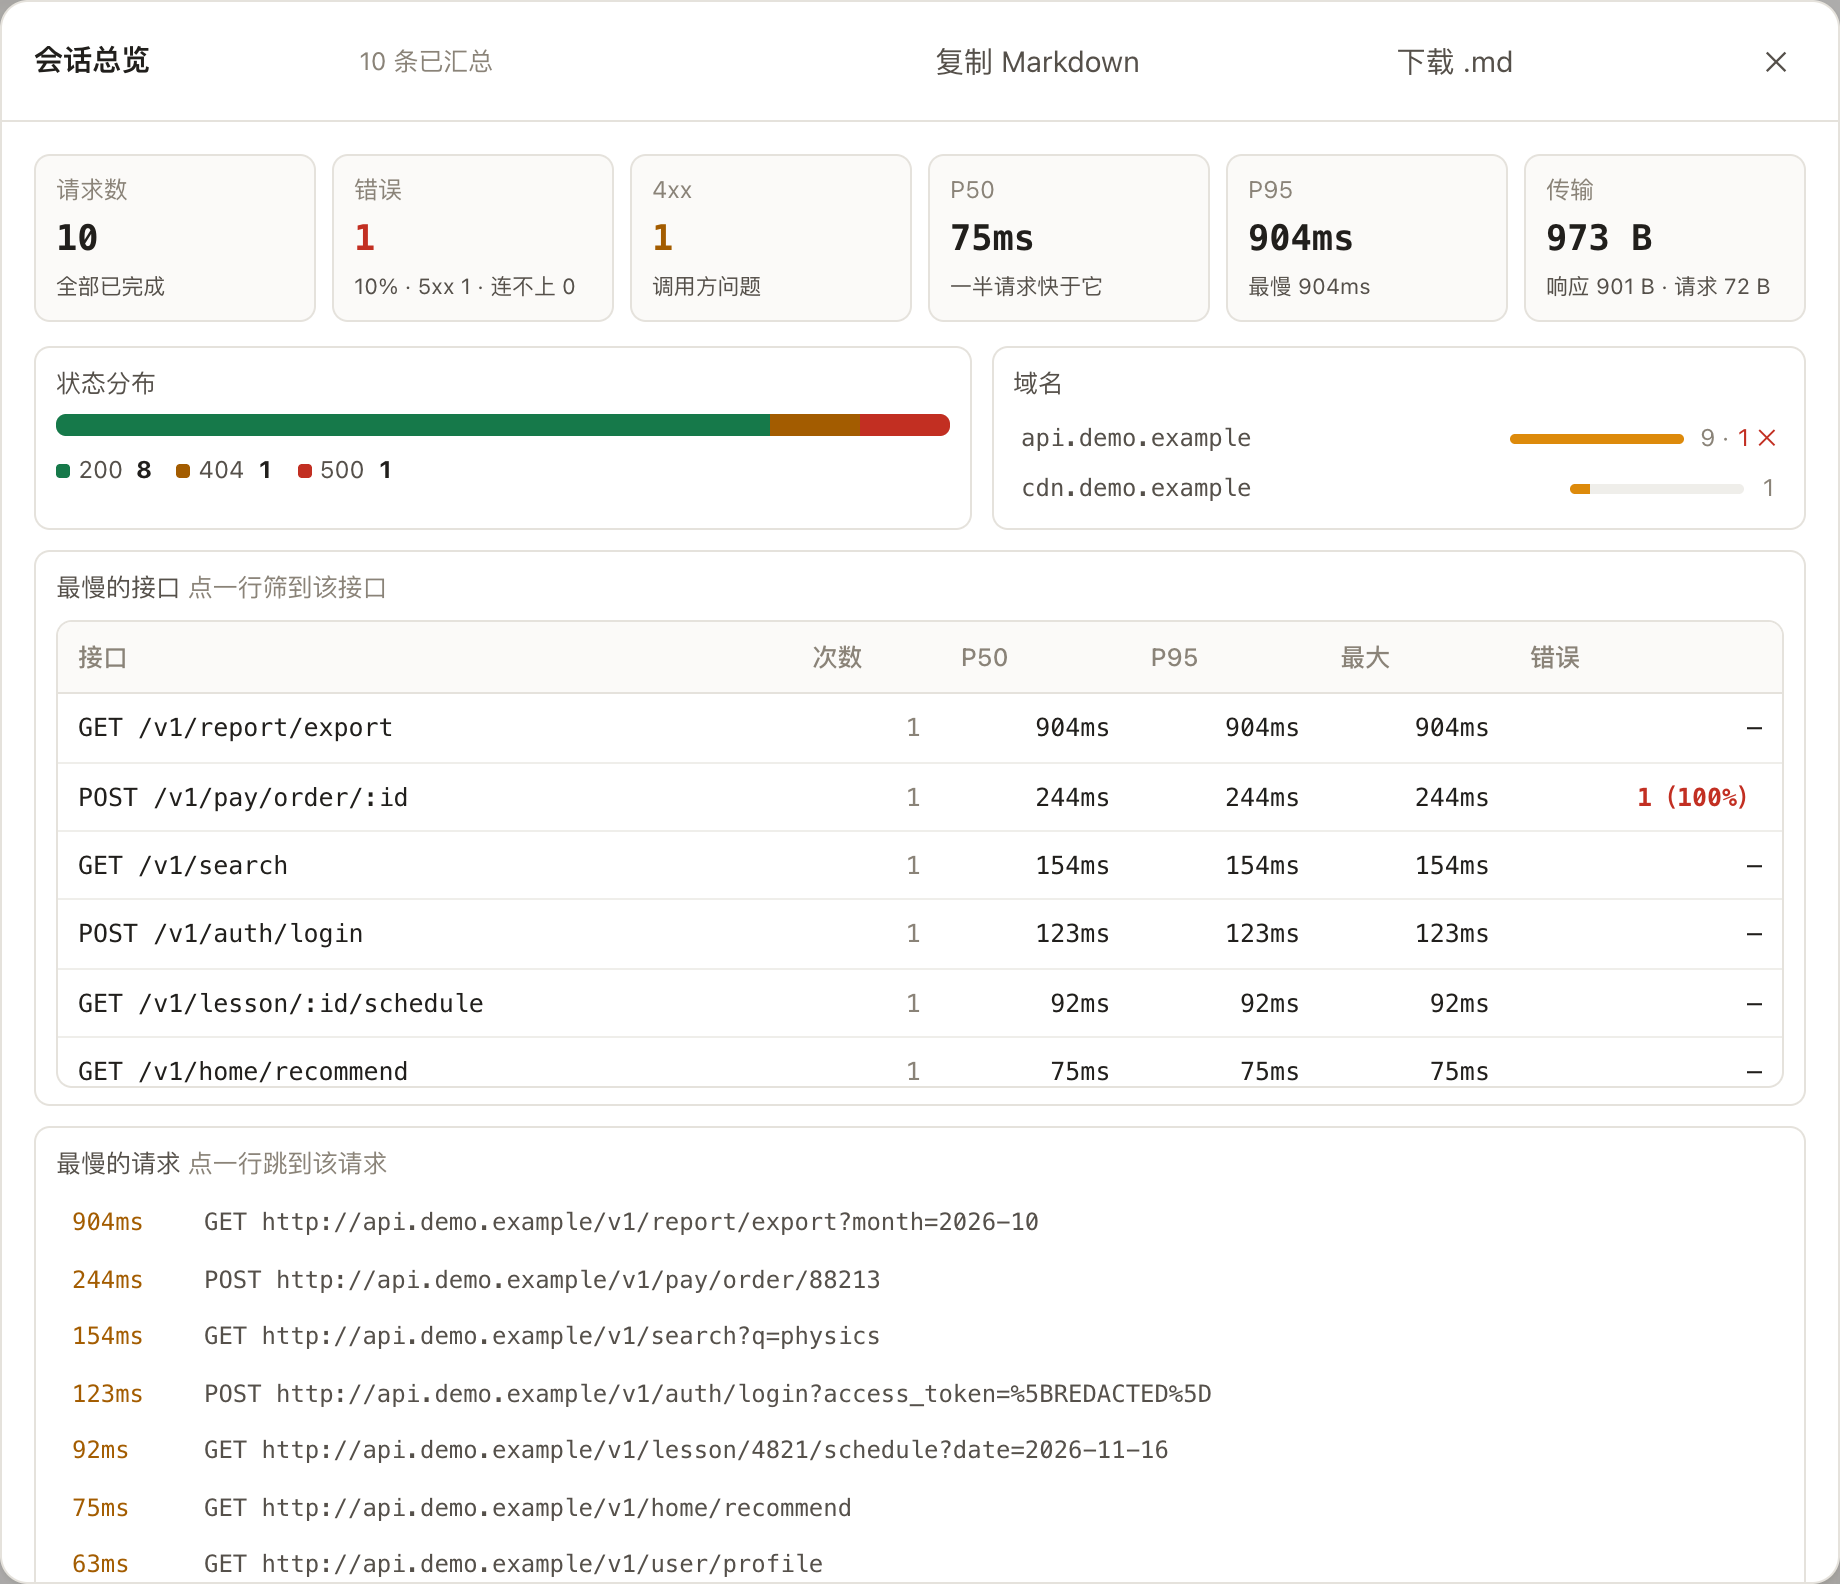
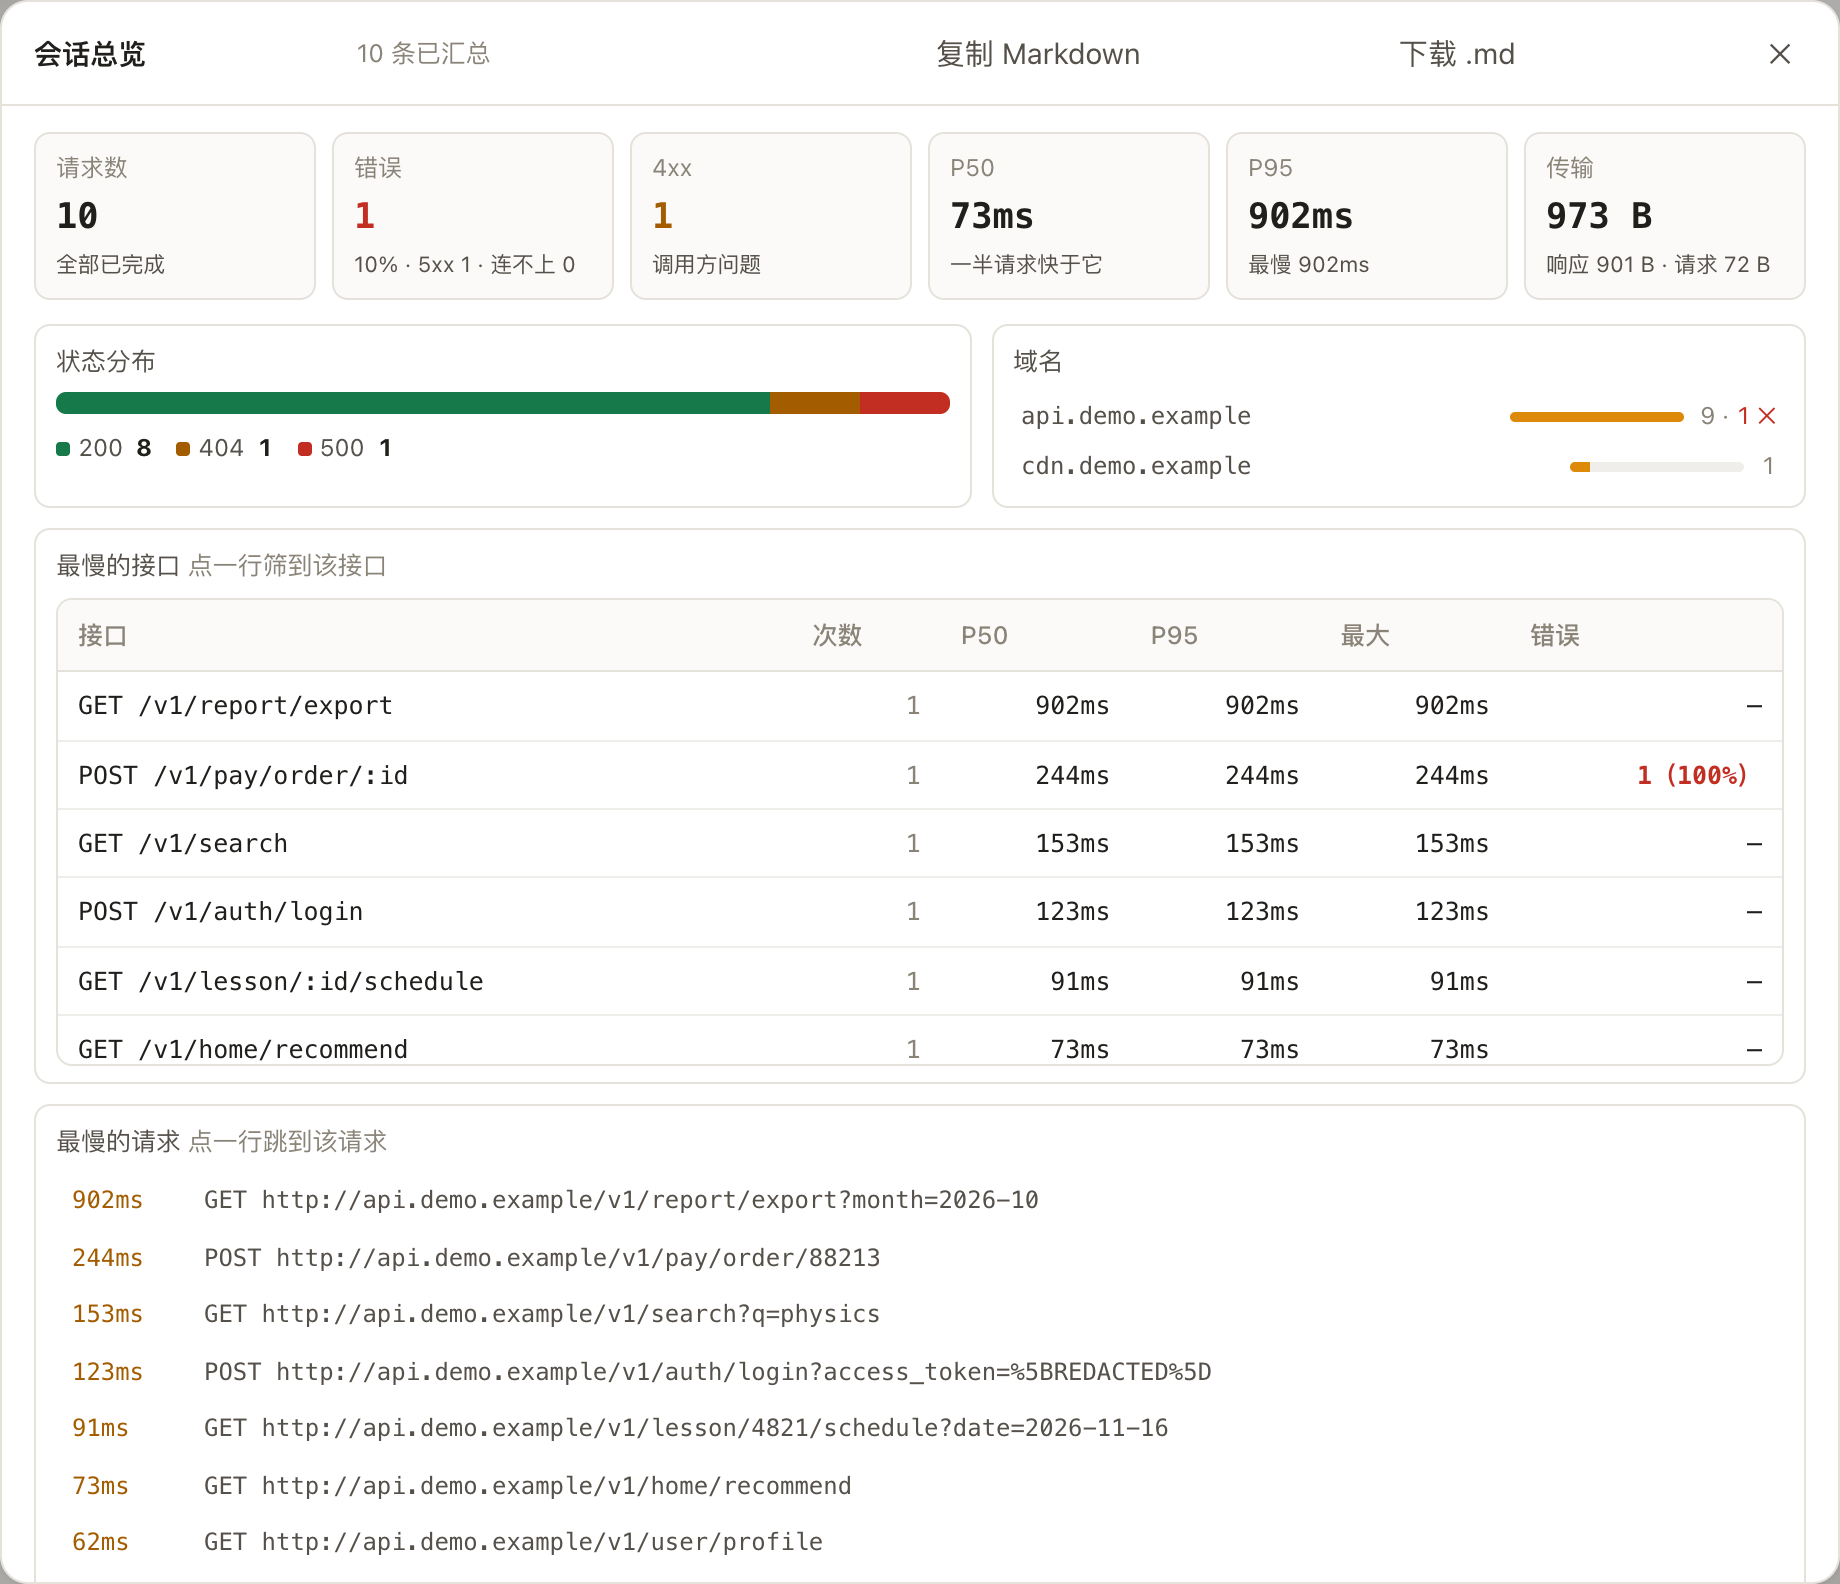
style: 再瘦一轮界面（详情头部 / 弹窗头部 / 长说明）
- 详情头部：8 个操作按钮挤一行（窄详情会换行把 dmeta 撑高），现在只留
  重放 / Mock 此请求 / ☆ 收藏，断点、域名映射、对比基准、网络模拟、复制 cURL
  收进「⋯」菜单；dhead 164px → 135px。点空白处收起菜单。
- 弹窗头部 60px → 52px（小面板里它占两三成高度），modal-body padding 16 → 13。
- 面板长说明默认折成一行：脚本（39→19px）、反向代理（42→21px）、脱敏、
  跳过解密、告警共 5 处；用 ▾ 符号提示可展开，一行放得下时不显示箭头（.no-fold）。

测试侧：_pw 的点击装饰器支持 #flowMoreMenu（点菜单项前自动展开，和顶部 / 筛选菜单一致）；
check-dom 白名单补两个动态 id；i18n 字典换掉「网络 ▾」、补三条英译。全套 50/50。

diff --git a/public/app.js b/public/app.js
@@ -2437,14 +2437,20 @@ function renderDetail() {
         <span class="dactions">
           <button class="btn" id="actReplay">重放</button>
           <button class="btn" id="actMock">Mock 此请求</button>
-          <button class="btn ghost" id="actBreak" title="给这个路径加一条断点规则：下次命中时停下来让你改">断点</button>
-          <button class="btn ghost" id="actMap" title="把这个域名映射到别的机器：配一次就一直生效">映射</button>
-          <button class="btn ghost" id="actBase" title="把它设为对比基准：别的请求详情里就能跟它比，再点一次取消">${
-            S.cmpBaseId === f.id ? '取消基准' : '对比基准'
-          }</button>
-          <button class="btn ghost" id="actNet">网络 ▾</button>
-          <button class="btn ghost" id="actStar">☆ 收藏</button>
-          <button class="btn ghost" id="actCurl">复制 cURL</button>
+          <button class="btn ghost" id="actStar" title="收藏这条请求的「应用 + 接口」，下次一点就筛回来">☆ 收藏</button>
+          <div class="more-wrap" id="flowMoreWrap">
+            <button class="btn icon ghost" id="btnFlowMore" title="更多操作" aria-haspopup="true"
+              aria-expanded="false" aria-label="更多操作">⋯</button>
+            <div class="more-menu" id="flowMoreMenu" hidden>
+              <button class="more-item" id="actBreak" title="给这个路径加一条断点规则：下次命中时停下来让你改">断点…</button>
+              <button class="more-item" id="actMap" title="把这个域名映射到别的机器：配一次就一直生效">域名映射…</button>
+              <button class="more-item" id="actBase" title="把它设为对比基准：别的请求详情里就能跟它比，再点一次取消">${
+                S.cmpBaseId === f.id ? '取消基准' : '对比基准'
+              }</button>
+              <button class="more-item" id="actNet">网络模拟…</button>
+              <button class="more-item" id="actCurl">复制 cURL</button>
+            </div>
+          </div>
         </span>
       </div>
       <div class="tabs" id="tabs">
@@ -2475,6 +2481,24 @@ function renderDetail() {
   });
 
   $('#detailClose')?.addEventListener('click', closeDetail);
+
+  // 详情头部低频操作收进「⋯」：断点 / 映射 / 基准 / 网络 / curl 平时用不到，
+  // 8 个按钮挤一行在窄详情里会换行，把 dmeta 撑高
+  const flowMoreBtn = $('#btnFlowMore');
+  const flowMoreMenu = $('#flowMoreMenu');
+  if (flowMoreBtn && flowMoreMenu) {
+    flowMoreBtn.addEventListener('click', (e) => {
+      e.stopPropagation();
+      const open = flowMoreMenu.hidden;
+      flowMoreMenu.hidden = !open;
+      flowMoreBtn.setAttribute('aria-expanded', String(open));
+    });
+    flowMoreMenu.addEventListener('click', () => {
+      flowMoreMenu.hidden = true;
+      flowMoreBtn.setAttribute('aria-expanded', 'false');
+    });
+  }
+
   if (splitTab) bindDetailSplit(pane);
 
   $('#actReplay')?.addEventListener('click', openReplay);
@@ -3360,10 +3384,22 @@ function focusableIn(modal) {
   );
 }
 
+/**
+ * 说明文字默认折一行；只有「真的放不下」才给折叠箭头 ——
+ * 一行就能显示完的说明再挂个 ▾ 只是噪声。
+ */
+function markFoldHints() {
+  $$('[data-fold-hint]').forEach((el) => {
+    if (el.classList.contains('open')) return;
+    el.classList.toggle('no-fold', el.scrollHeight <= el.clientHeight + 1);
+  });
+}
+
 function openModal(id) {
   const modal = $(id);
   lastModalFocus = document.activeElement;
   modal.hidden = false;
+  requestAnimationFrame(markFoldHints);
   if (window.ReqLiteJSON) setTimeout(() => window.ReqLiteJSON.relayout(), 30);
   // 纯展示型弹窗（如首启引导）不抢焦点：自动 focus 会带出浏览器默认的焦点环，
   // 在深色下是一圈白框，比弹窗本身还扎眼。Tab 仍然能进，键盘可达性不受影响。
@@ -8366,6 +8402,27 @@ function bind() {
   $('#rpFormat').addEventListener('click', () => { if (RU.replayBody && RU.replayBody.format()) toast('已格式化'); else toast('内容不是合法 JSON'); });
   $('#rpMinify').addEventListener('click', () => { if (RU.replayBody && RU.replayBody.minify()) toast('已压缩'); else toast('内容不是合法 JSON'); });
   $('#rpCopyBody').addEventListener('click', () => copyText(replayBodyValue(), '请求体已复制'));
+
+  // 面板说明默认折成一行（[data-fold-hint]），点一下展开/收起
+  document.addEventListener('click', (e) => {
+    const hint = e.target.closest('[data-fold-hint]');
+    if (!hint || hint.classList.contains('no-fold')) return;
+    hint.classList.toggle('open');
+  });
+  markFoldHints();
+
+  // 点空白处收起详情头部的「⋯」菜单
+  document.addEventListener(
+    'pointerdown',
+    (e) => {
+      const menu = $('#flowMoreMenu');
+      if (!menu || menu.hidden) return;
+      if (e.target.closest('#flowMoreWrap')) return;
+      menu.hidden = true;
+      $('#btnFlowMore')?.setAttribute('aria-expanded', 'false');
+    },
+    true
+  );
 
   // 详情里的「结构化 / 原始 / 展开折叠 / 全屏 / 复制」：#detail 常驻，委托一次即可
   $('#detail').addEventListener('click', (e) => {

diff --git a/public/index.html b/public/index.html
@@ -1100,7 +1100,7 @@ sudo cp reqlite-ca.pem /usr/local/share/ca-certificates/ &amp;&amp; sudo update-
           <button class="btn icon ghost" data-close>✕</button>
         </div>
         <div class="modal-body">
-          <p class="hint">规则之间是「且」的关系：留空的字段表示不限。每条规则自带冷却，同一问题不会连着刷屏；全局每分钟最多 20 条。</p>
+          <p class="hint" data-fold-hint>规则之间是「且」的关系：留空的字段表示不限。每条规则自带冷却，同一问题不会连着刷屏；全局每分钟最多 20 条。</p>
           <div class="al-rules" id="alRules"></div>
           <div class="net-actions">
             <button class="btn ghost" id="alAdd">+ 添加规则</button>
@@ -1128,7 +1128,7 @@ sudo cp reqlite-ca.pem /usr/local/share/ca-certificates/ &amp;&amp; sudo update-
           <button class="btn icon ghost" data-close>✕</button>
         </div>
         <div class="modal-body">
-          <p class="hint">
+          <p class="hint" data-fold-hint>
             只给两个同步钩子：<code>onRequest(req)</code> 改 method / url / headers，
             <code>onResponse(res)</code> 改 status / headers / body。沙箱里没有网络、文件和 require，
             每次调用最多 50ms。响应阶段需要先收全响应体，命中规则的请求上限 4MB。
@@ -1167,7 +1167,7 @@ sudo cp reqlite-ca.pem /usr/local/share/ca-certificates/ &amp;&amp; sudo update-
           <button class="btn icon ghost" data-close>✕</button>
         </div>
         <div class="modal-body">
-          <p class="hint rd-scope">只作用于导出文件、MCP 输出和带 redact=1 的接口。界面里始终显示原值 —— 打了码你就没法确认到底是哪个 token 失效了。</p>
+          <p class="hint rd-scope" data-fold-hint>只作用于导出文件、MCP 输出和带 redact=1 的接口。界面里始终显示原值 —— 打了码你就没法确认到底是哪个 token 失效了。</p>
           <div class="rd-parts">
             <label class="rd-check"><input type="checkbox" id="rdHeaders" /> 请求头 / 响应头</label>
             <label class="rd-check"><input type="checkbox" id="rdQuery" /> URL 查询参数</label>
@@ -1281,7 +1281,7 @@ sudo cp reqlite-ca.pem /usr/local/share/ca-certificates/ &amp;&amp; sudo update-
           <button class="btn icon ghost" data-close>✕</button>
         </div>
         <div class="modal-body">
-          <p class="hint rv-scope">正向代理抓的是客户端发出去的请求；这里反过来 —— 起一个端口接住打向本机服务的请求（webhook / 回调 / 网关），规则、断点、脚本、弱网照常生效。</p>
+          <p class="hint rv-scope" data-fold-hint>正向代理抓的是客户端发出去的请求；这里反过来 —— 起一个端口接住打向本机服务的请求（webhook / 回调 / 网关），规则、断点、脚本、弱网照常生效。</p>
           <div class="rv-form">
             <label>
               <span>监听端口</span>
@@ -1400,7 +1400,7 @@ sudo cp reqlite-ca.pem /usr/local/share/ca-certificates/ &amp;&amp; sudo update-
             <span class="hint" id="ptKilledText" hidden></span>
             <button class="btn ghost" id="ptRefresh">刷新</button>
           </div>
-          <p class="hint pt-intro">命中的域名走原样透传：App 能连上，但看不到明文。规则匹配该域名及所有子域，改动立即生效并自动保存。</p>
+          <p class="hint pt-intro" data-fold-hint>命中的域名走原样透传：App 能连上，但看不到明文。规则匹配该域名及所有子域，改动立即生效并自动保存。</p>
           <div class="pt-add">
             <input id="ptAddInput" class="input mono" placeholder="输入域名后回车，支持空格 / 逗号批量" spellcheck="false" />
             <button class="btn primary" id="ptAddBtn">添加</button>

diff --git a/public/style.css b/public/style.css
@@ -7035,3 +7035,61 @@ body.resizing-v * {
   padding-top: 3px;
   border-top: 1px solid var(--border);
 }
+
+/* --------------------------------------------- 面板说明：默认一行，点开看全 */
+/* 这些说明都是「读一次就够」，常驻三四行会把面板顶下去；折成一行 + 小箭头，
+ * 想细看再点。用纯符号做指示，不引入新文案（也就不会漏翻译）。 */
+[data-fold-hint] {
+  position: relative;
+  padding-right: 16px;
+  cursor: pointer;
+}
+
+[data-fold-hint]:not(.open) {
+  display: -webkit-box;
+  -webkit-line-clamp: 1;
+  -webkit-box-orient: vertical;
+  overflow: hidden;
+}
+
+[data-fold-hint]::after {
+  content: '▾';
+  position: absolute;
+  right: 0;
+  bottom: 0;
+  color: var(--muted);
+  font-size: calc(10px * var(--ui-scale));
+  line-height: 1;
+  pointer-events: none;
+}
+
+[data-fold-hint].open::after {
+  content: '▴';
+}
+
+[data-fold-hint]:hover::after {
+  color: var(--text-2);
+}
+
+/* 弹窗头部收紧一档：小面板里 60px 的头占了两三成高度 */
+.modal-head {
+  padding: 9px 14px 9px 16px;
+}
+
+.modal-head h2 {
+  font-size: calc(13.5px * var(--ui-scale));
+}
+
+.modal-body {
+  padding: 13px 16px;
+}
+
+/* 放得下就不显示折叠箭头（JS 会加 .no-fold） */
+[data-fold-hint].no-fold {
+  padding-right: 0;
+  cursor: default;
+}
+
+[data-fold-hint].no-fold::after {
+  content: none;
+}

diff --git a/tools/_pw.js b/tools/_pw.js
@@ -62,11 +62,13 @@ function decoratePage(page) {
         if (!el) return '';
         if (el.closest('#moreMenu')) return 'top';
         if (el.closest('#filterMoreMenu')) return 'filter';
+        // 详情头部低频操作收在「⋯」里：点它们之前先把菜单展开
+        if (el.closest('#flowMoreMenu')) return 'flow';
         return '';
       }, selector);
       if (where) {
-        const menuId = where === 'top' ? '#moreMenu' : '#filterMoreMenu';
-        const trigger = where === 'top' ? '#btnMore' : '#btnFilterMore';
+        const menuId = where === 'top' ? '#moreMenu' : where === 'filter' ? '#filterMoreMenu' : '#flowMoreMenu';
+        const trigger = where === 'top' ? '#btnMore' : where === 'filter' ? '#btnFilterMore' : '#btnFlowMore';
         const opened = await page.evaluate((id) => {
           const m = document.querySelector(id);
           return !!m && !m.hidden;

diff --git a/public/i18n-en.js b/public/i18n-en.js
@@ -423,6 +423,9 @@ window.ReqLiteI18N_EN = {
 
   "网络": "Network",
   "网络模拟": "Network Simulation",
+  "网络模拟…": "Network…",
+  "断点…": "Breakpoints…",
+  "域名映射…": "Host mapping…",
   "启用": "Enabled",
   "关闭后所有规则暂停，但不会删除": "Pause all rules without deleting them",
   "只影响匹配的请求；重启服务后自动清空": "Applies only to matching requests; cleared when the service restarts",
@@ -502,7 +505,6 @@ window.ReqLiteI18N_EN = {
   "输入 URL 跳到请求": "Type a URL to jump to a request",
   "命令面板": "Command palette",
   "搜索请求或输入命令…": "Search requests or type a command…",
-  "网络 ▾": "Network ▾",
   "管理网络规则": "Manage network rules",
   "没有匹配的命令或请求": "No matching commands or requests",
   "命令": "Command",

diff --git a/tools/check-dom.js b/tools/check-dom.js
@@ -27,7 +27,7 @@ const usedIds = new Set(
 const DYNAMIC = new Set([
   'tabs', 'actReplay', 'actMock', 'actCurl', 'actStar', 'actNet', 'actBreak', 'actMap', 'actBase', 'rtCrumbBack',
   // 详情头部的关闭按钮、请求/响应页里「头部 ↔ 正文」的分割条
-  'detailClose', 'dSplit',
+  'detailClose', 'dSplit', 'btnFlowMore', 'flowMoreMenu',
   // 「消息」页签（WebSocket 帧 / SSE 消息）整块由 tabMessages() 现渲染
   'msgList', 'msgCount', 'msgDirBar', 'msgDropped', 'msgBytes', 'msgComments',
 ]);

diff --git a/docs/feature-matrix.md b/docs/feature-matrix.md
@@ -39,6 +39,7 @@
 | 脚本规则 | 沙箱里的 `onRequest` / `onResponse` 同步钩子，改方法 / 地址 / 头 / 状态码 / body；无网络无文件、单次 50ms 超时 |
 | 脱敏开关 | 一个开关决定导出与 MCP 输出要不要打码：凭据类头 / 查询参数 / 正文字段，认证头保留 scheme；面板里两栏对照真实流量，**界面永远原值** |
 | 详情面板按需打开 | 没选中请求时不占位，列表吃满宽度（多看几列 URL）；选中自动展开，头部 ✕ 关闭；分组栏标题与列表表头同高，顶部不参差 |
+| 界面密度可调 | 详情头部只留重放 / Mock / 收藏，断点 / 映射 / 基准 / 网络 / cURL 收进「⋯」；弹窗头部压到 52px；面板长说明默认折一行（放不下才给箭头），点一下看全 |
 | 侧栏按需展开 | 收藏 / 接口结构 / 历史记录三组默认收起，只留标题 + 条数；手动展开过就记住。书签悬停给一行「应用 · 域名 · 接口」，不再甩 JSON |
 | 详情上下分割 | 请求 / 响应页里「头部 ↔ 正文」之间一条可上下拖的线，双击复位，比例记在本地；正文的「结构化 / 原始」用与顶部页签同一套样式 |
 | 长域名折叠 | 域名被截断时悬停出现展开标识，点一下换行显示完整，再点收起；没截断的行点字仍是正常选中 |
